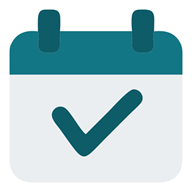
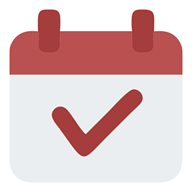
feat: update theme colors and improve branding across the application

Changed region(s): [[0.0312, 0.0312, 0.9688, 0.4062], [0.25, 0.4375, 0.75, 0.8125]]

diff --git a/src/pages/Login.tsx b/src/pages/Login.tsx
@@ -33,7 +33,7 @@ export default function Login() {
     return (
       <div className="flex min-h-screen items-center justify-center bg-[#172233]">
         <div className="flex flex-col items-center gap-3">
-          <div className="h-8 w-8 animate-spin rounded-full border-4 border-[#42d27b] border-t-transparent" />
+          <div className="h-8 w-8 animate-spin rounded-full border-4 border-[var(--ef-accent)] border-t-transparent" />
           <p className="text-sm text-[#c7cad1]">Carregando...</p>
         </div>
       </div>
@@ -125,7 +125,7 @@ export default function Login() {
       <section className="order-1 flex items-center justify-center bg-white px-5 py-8 sm:px-12 sm:py-12 lg:px-16">
         <div className="w-full max-w-md">
           <div className="mb-6 sm:mb-8">
-            <BrandLogo className="mx-auto block h-auto w-48 sm:w-56" />
+            <BrandLogo className="mx-auto h-auto w-48 sm:w-56" />
           </div>
 
           <div className="ef-tabs mb-6">
@@ -197,7 +197,7 @@ export default function Login() {
               </div>
 
               <label className="mt-5 flex cursor-pointer items-start gap-3">
-                <input type="checkbox" checked={lgpdAccepted} onChange={(e) => setLgpdAccepted(e.target.checked)} className="mt-0.5 h-5 w-5 rounded border-slate-300 text-[#42d27b] focus:ring-[#42d27b]" />
+                <input type="checkbox" checked={lgpdAccepted} onChange={(e) => setLgpdAccepted(e.target.checked)} className="mt-0.5 h-5 w-5 rounded border-slate-300 text-[var(--ef-accent)] focus:ring-[var(--ef-accent)]" />
                 <span className="text-sm text-[var(--ef-text-2)]">
                   Aceito as{" "}
                   <button type="button" onClick={(e) => { e.preventDefault(); setShowLGPD(true); }} className="font-semibold text-[var(--ef-accent-strong)] underline hover:underline">
@@ -220,7 +220,7 @@ export default function Login() {
 
       <section className="hidden items-center bg-[#172233] px-6 py-14 sm:px-12 lg:order-2 lg:flex lg:px-20">
         <div className="max-w-lg">
-          <span className="text-xs font-bold uppercase tracking-[0.2em] text-[#42d27b]">Organização simples</span>
+          <span className="text-xs font-bold uppercase tracking-[0.2em] text-[var(--ef-accent)]">Organização simples</span>
           <h2 className="mt-4 text-3xl font-bold leading-[1.15] tracking-tight text-white sm:text-[40px]">
             Tudo o que sua equipe precisa para cuidar do dia.
           </h2>
@@ -235,7 +235,7 @@ export default function Login() {
               "Voluntários confirmam presença pelo celular",
             ].map((item) => (
               <div key={item} className="flex items-center gap-3 text-sm font-semibold text-white">
-                <span className="flex h-10 w-10 flex-shrink-0 items-center justify-center rounded-full bg-[#42d27b]/15 text-[#42d27b]">
+                <span className="flex h-10 w-10 flex-shrink-0 items-center justify-center rounded-full bg-[var(--ef-accent-soft)] text-[var(--ef-accent)]">
                   <i className="fi fi-rr-check" />
                 </span>
                 {item}

diff --git a/index.html b/index.html
@@ -7,7 +7,7 @@
     <link rel="icon" type="image/png" sizes="192x192" href="/android-chrome-192x192.png" />
     <link rel="apple-touch-icon" sizes="180x180" href="/apple-touch-icon.png" />
     <meta name="viewport" content="width=device-width, initial-scale=1.0, viewport-fit=cover" />
-    <meta name="theme-color" content="#f6f6f6" />
+    <meta name="theme-color" content="#A43D3B" />
     <meta name="description" content="EscalaFácil - Gerenciamento de escalas, voluntários e departamentos para eventos sazonais." />
     <meta http-equiv="Content-Security-Policy" content="default-src 'self'; script-src 'self' 'unsafe-inline' https://static.cloudflareinsights.com https://accounts.google.com; style-src 'self' 'unsafe-inline' https://fonts.googleapis.com https://cdn-uicons.flaticon.com https://accounts.google.com; font-src 'self' https://fonts.gstatic.com https://cdn-uicons.flaticon.com; img-src 'self' data: blob: https://accounts.google.com; connect-src 'self' https://fonts.googleapis.com https://fonts.gstatic.com https://cdn-uicons.flaticon.com https://servicodados.ibge.gov.br https://accounts.google.com https://www.googleapis.com; frame-src https://accounts.google.com; base-uri 'self'; form-action 'self'" />
     <meta name="referrer" content="strict-origin-when-cross-origin" />
@@ -23,7 +23,7 @@
         document.documentElement.classList.toggle("dark", theme === "dark");
         document.querySelector('meta[name="theme-color"]')?.setAttribute(
           "content",
-          theme === "dark" ? "#171717" : "#f6f6f6"
+          theme === "dark" ? "#171717" : "#A43D3B"
         );
       } catch (error) {
         console.warn("Não foi possível carregar a preferência de tema.", error);

diff --git a/src/pages/PublicCadastro.tsx b/src/pages/PublicCadastro.tsx
@@ -283,7 +283,7 @@ export default function PublicCadastro() {
                         aria-pressed={isSelected}
                         className={`flex-1 rounded-tile border px-4 py-4 text-center text-sm font-semibold transition ${
                           isSelected
-                            ? "border-[#42d27b] bg-[#42d27b]/10 text-[var(--ef-accent-strong)]"
+                            ? "border-[var(--ef-accent)] bg-[var(--ef-accent-soft)] text-[var(--ef-accent-strong)]"
                             : "border-slate-200 bg-[var(--ef-tile)] text-[var(--ef-text-2)] hover:border-[var(--ef-faint)]"
                         }`}
                       >
@@ -304,7 +304,7 @@ export default function PublicCadastro() {
                         aria-pressed={isSelected}
                         className={`rounded-tile border px-3 py-3 text-left transition ${
                           isSelected
-                            ? "border-[#42d27b] bg-[#42d27b]/10 font-medium text-[var(--ef-accent-strong)]"
+                            ? "border-[var(--ef-accent)] bg-[var(--ef-accent-soft)] font-medium text-[var(--ef-accent-strong)]"
                             : "border-slate-200 bg-[var(--ef-tile)] text-[var(--ef-text-2)] hover:border-[var(--ef-faint)]"
                         }`}
                       >

diff --git a/src/index.css b/src/index.css
@@ -31,11 +31,11 @@
   --ef-border: #e3e4e8;
 
   /* marca */
-  --ef-accent: #42d27b;
-  --ef-accent-hover: #36b868;
-  --ef-accent-ink: #172233;
-  --ef-accent-strong: #1f7a44;
-  --ef-accent-soft: rgba(66, 210, 123, 0.14);
+  --ef-accent: #A43D3B;
+  --ef-accent-hover: #873230;
+  --ef-accent-ink: #ffffff;
+  --ef-accent-strong: #873230;
+  --ef-accent-soft: rgba(164, 61, 59, 0.14);
   --ef-navy: #172233;
   --ef-navy-hover: #0f1720;
   --ef-on-navy: #ffffff;
@@ -63,7 +63,7 @@
   --ef-shadow-modal: 0 24px 56px rgba(16, 24, 40, 0.18);
 
   /* foco */
-  --ef-focus: 0 0 0 3px rgba(66, 210, 123, 0.35);
+  --ef-focus: 0 0 0 3px rgba(164, 61, 59, 0.35);
 }
 
 html[data-theme="dark"] {
@@ -82,9 +82,9 @@ html[data-theme="dark"] {
   --ef-faint: #7d838e;
   --ef-border: #2e3138;
 
-  --ef-accent-ink: #0f1720;
-  --ef-accent-strong: #6ee7a2;
-  --ef-accent-soft: rgba(66, 210, 123, 0.16);
+  --ef-accent-ink: #ffffff;
+  --ef-accent-strong: #efaaa7;
+  --ef-accent-soft: rgba(164, 61, 59, 0.20);
 
   --ef-danger-soft: #2a1614;
   --ef-danger-ink: #ff9a91;
@@ -636,6 +636,11 @@ iframe {
 
 .brand-logo-dark {
   display: none;
+}
+
+.brand-logo img {
+  min-width: 0;
+  object-fit: contain;
 }
 
 html[data-theme="dark"] .brand-logo-light {

diff --git a/src/App.tsx b/src/App.tsx
@@ -504,7 +504,7 @@ function AppLayout() {
         <header className="ap-header">
           <div className="w-full px-5 py-4 md:px-8 md:py-5">
             <div className="flex items-center justify-between">
-              <BrandLogo className="block h-9 w-auto" />
+              <BrandLogo className="h-9 w-[149px]" />
               <div className="flex items-center gap-2">
                 {user && <UserMenu user={user} onLogout={handleLogout} />}
               </div>
@@ -532,7 +532,7 @@ function AppLayout() {
 
       <aside className="fixed left-0 top-0 hidden h-full w-72 border-r border-[var(--ef-border)] bg-[var(--ef-sidebar)] p-5 lg:block" aria-label="Menu principal">
         <div>
-          <BrandLogo className="ap-brand-logo mx-auto mb-6 block h-20 w-48" />
+          <BrandLogo className="ap-brand-logo mx-auto mb-6 h-20 w-48" />
 
           {hasDepartment ? (
             <div className="relative mt-4">

diff --git a/src/tokens.ts b/src/tokens.ts
@@ -10,16 +10,16 @@
 export const DESIGN_TOKENS = {
   colors: {
     brand: {
-      50: "#eefbf3",
-      100: "#d6f5e3",
-      200: "#b0eacc",
-      300: "#7dd9ae",
-      400: "#42d27b", // Primary accent
-      500: "#2a9d5c", // Secondary accent
-      600: "#1f7a44", // Hover secondary
-      700: "#1a6237",
-      800: "#174e2e",
-      900: "#134127",
+      50: "#fbf1f0",
+      100: "#f5dada",
+      200: "#e7aeac",
+      300: "#d3817e",
+      400: "#A43D3B", // Primary accent
+      500: "#873230", // Secondary accent
+      600: "#702725", // Hover secondary
+      700: "#591f1e",
+      800: "#421718",
+      900: "#2c1011",
     },
     navy: {
       50: "#f0f3f7",

diff --git a/tailwind.config.js b/tailwind.config.js
@@ -9,16 +9,16 @@ export default {
     extend: {
       colors: {
         brand: {
-          50: "#eefbf3",
-          100: "#d6f5e3",
-          200: "#b0eacc",
-          300: "#7dd9ae",
-          400: "#42d27b",
-          500: "#2a9d5c",
-          600: "#1f7a44",
-          700: "#1a6237",
-          800: "#174e2e",
-          900: "#134127",
+          50: "#fbf1f0",
+          100: "#f5dada",
+          200: "#e7aeac",
+          300: "#d3817e",
+          400: "#A43D3B",
+          500: "#873230",
+          600: "#702725",
+          700: "#591f1e",
+          800: "#421718",
+          900: "#2c1011",
         },
         navy: {
           50: "#f0f3f7",

diff --git a/vite.config.ts b/vite.config.ts
@@ -88,7 +88,7 @@ export default defineConfig(({ mode }) => {
           name: 'EscalaFácil',
           short_name: 'EscalaFácil',
           description: 'Gerenciamento de escalas, voluntários e departamentos para eventos sazonais.',
-          theme_color: '#172233',
+          theme_color: '#A43D3B',
           background_color: '#f6f6f6',
           display: 'standalone',
           start_url: '/',

diff --git a/src/__tests__/PublicCadastro.test.tsx b/src/__tests__/PublicCadastro.test.tsx
@@ -124,7 +124,7 @@ describe("PublicCadastro", () => {
 
     const sextaManha = screen.getAllByText("Manhã")[0].closest("button")!;
     fireEvent.click(sextaManha);
-    expect(sextaManha.className).toContain("border-[#42d27b]");
+    expect(sextaManha.className).toContain("border-[var(--ef-accent)]");
 
     fireEvent.click(sextaManha);
     expect(sextaManha.className).toContain("border-slate-200");

diff --git a/src/context/ThemeContext.tsx b/src/context/ThemeContext.tsx
@@ -43,7 +43,7 @@ export function ThemeProvider({ children }: { children: ReactNode }) {
     root.style.colorScheme = theme;
     document.querySelector('meta[name="theme-color"]')?.setAttribute(
       "content",
-      theme === "dark" ? "#171717" : "#f6f6f6"
+      theme === "dark" ? "#171717" : "#A43D3B"
     );
   }, [theme]);
 

diff --git a/src/components/BrandLogo.tsx b/src/components/BrandLogo.tsx
@@ -11,7 +11,7 @@ export default function BrandLogo({
   alt = "EscalaFácil",
 }: BrandLogoProps) {
   return (
-    <span className={`brand-logo ${className}`}>
+    <span className={`brand-logo flex items-center ${className}`}>
       <img
         src={logoDark}
         alt={alt}
